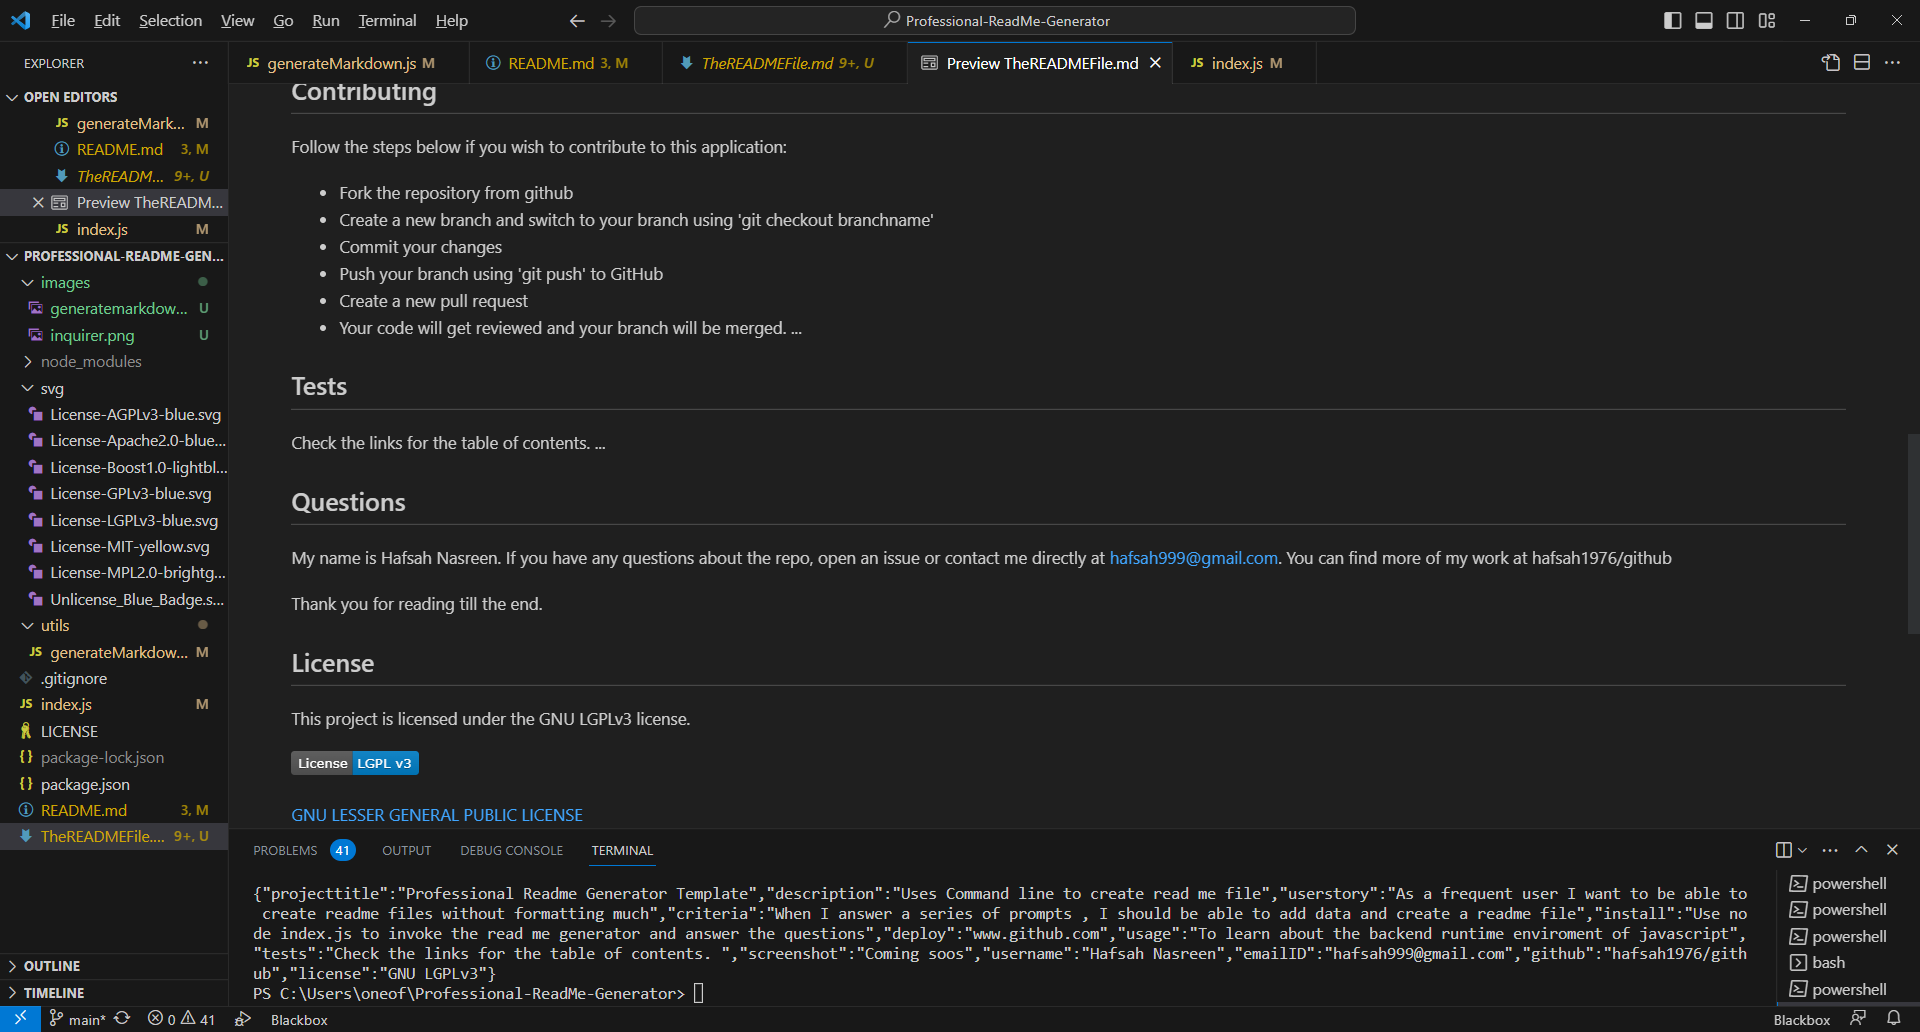
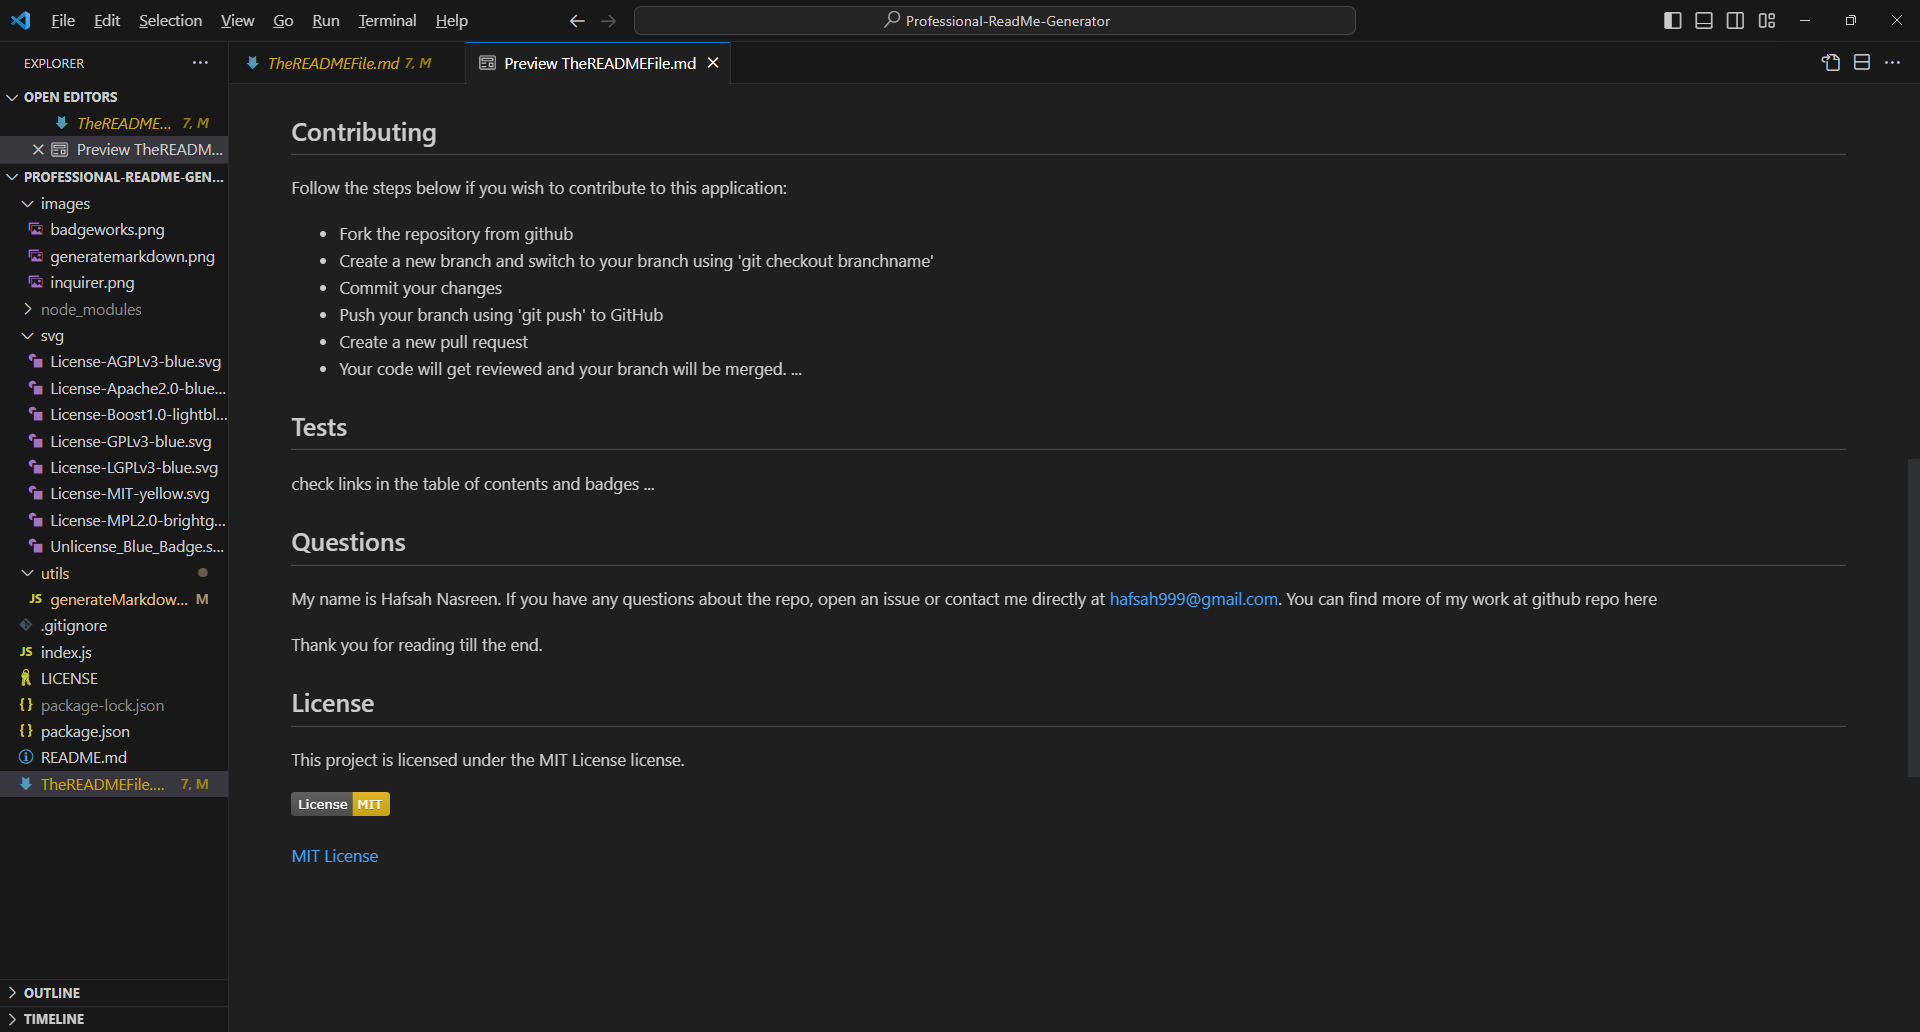
double checking everything

diff --git a/utils/generateMarkdown.js b/utils/generateMarkdown.js
@@ -10,8 +10,8 @@ function renderLicenseBadge(license) {
     return "![License: LGPL v3](./svg/License-LGPLv3-blue.svg)";
   } else if (license === "Mozilla Public License 2.0") {
     return "![Mozilla Public License 2.0](./svg/License-MPL2.0-brightgreen.svg)";
-  } else if (license === "MIT") {
-    return "![License: MIT](./svg/License-MIT-yellow.svg)]";
+  } else if (license === "MIT License") {
+    return "![License: MIT](./svg/License-MIT-yellow.svg)";
   } else if (license === "Apache License 2.0") {
     return "![License:Apache License 2.0](./svg/License-Apache2.0-blue.svg)";
   } else if (license === "The Unlicense") {
@@ -39,14 +39,14 @@ function renderLicenseLink(license) {
     return "[Mozilla Public License 2.0](https://choosealicense.com/licenses/mpl-2.0/)";
   } else if (license === "Apache License 2.0") {
     return "[Apache License](https://choosealicense.com/licenses/apache-2.0/)";
-  } else if (license === "MIT") {
+  } else if (license === "MIT License") {
     return "[MIT License](https://choosealicense.com/licenses/mit/)";
-
   } else if (license === "The Unlicense") {
     return "[The Unlicense](https://choosealicense.com/licenses/unlicense/)";
   } else if (license === "Boost Software License 1.0") {
     return "[Boost Software License](https://choosealicense.com/licenses/bsl-1.0/)";
   } else {
+    
     return `No License Selected`;
   }
 }
@@ -57,12 +57,10 @@ function renderLicenseSection(license) {
   if (!license) {
     return '';
   }
-
   return `
-  ## License
+## License
 
-  This project is licensed under the ${license} license.
-  `;
+This project is licensed under the ${license} license.`;
 }
 
 // TODO: Create a function to generate markdown for README
@@ -72,10 +70,6 @@ function generateMarkdown(data) {
   
   ${data.description}
 
-  ${renderLicenseBadge(license)}
-
-  ...
-  
 ## Table of Contents
 
 - [User Story](#user-story)
@@ -85,31 +79,24 @@ function generateMarkdown(data) {
 - [Contributing](#contributing)
 - [Tests](#tests)
 - [Questions](#questions)
-  ...
 
-  ## User Story
+## User Story
 
   ${data.userstory}
-  ...
 
 ## Acceptance Criteria
 
   ${data.criteria}
-  ...
 
-## Usage 
+## Usage
 
     [Deployment URL](${data.deploy})
 
   ${data.usage}
-  ...
 
 ## Screenshot
 
   ${data.screenshot}
-
-  ![]()
-  ...
 
 ## Installation
 
@@ -123,14 +110,14 @@ function generateMarkdown(data) {
 
 ## Contributing
 
-  Follow the steps below if you wish to contribute to this application:
+Follow the steps below if you wish to contribute to this application:
 
-  - Fork the repository from github
-  - Create a new branch and switch to your branch using 'git checkout branchname'
-  - Commit your changes
-  - Push your branch using 'git push' to GitHub
-  - Create a new pull request
-  - Your code will get reviewed and your branch will be merged.
+- Fork the repository from github
+- Create a new branch and switch to your branch using 'git checkout branchname'
+- Commit your changes
+- Push your branch using 'git push' to GitHub
+- Create a new pull request
+- Your code will get reviewed and your branch will be merged.
   ...
 
 ## Tests
@@ -138,20 +125,18 @@ function generateMarkdown(data) {
   ${data.tests}
   ...
 
-  ## Questions
+## Questions
 
-  My name is ${data.username}. ${'\n'} If you have any questions about the repo, open an issue or contact me directly at ${data.emailID}. ${'\n'}You can find more of my work at ${data.github}
+My name is ${data.username}. ${'\n'} If you have any questions about the repo, open an issue or contact me directly at ${data.emailID}. ${'\n'}You can find more of my work at ${data.github}
 
-  Thank you for reading till the end.
+Thank you for reading till the end.
 
 
 ${renderLicenseSection(data.license)}
 
   ${renderLicenseBadge(data.license)}
 
-  ${renderLicenseLink(data.license)}
-  
-    `;
+  ${renderLicenseLink(data.license)}`;
 };
 
 module.exports = generateMarkdown;

diff --git a/TheREADMEFile.md b/TheREADMEFile.md
@@ -1,11 +1,7 @@
-# Professional Readme Generator Template
+# readme template generator
   
-  Uses Command line to create read me file
+  creates a readme file using command line
 
-  GNU LGPLv3
-
-  ...
-  
 ## Table of Contents
 
 - [User Story](#user-story)
@@ -15,44 +11,38 @@
 - [Contributing](#contributing)
 - [Tests](#tests)
 - [Questions](#questions)
-  ...
 
 ## User Story
 
-  As a frequent user I want to be able to create readme files without formatting much
-  ...
+  I want to create readme files using only command line
 
 ## Acceptance Criteria
 
-  When I answer a series of prompts , I should be able to add data and create a readme file
-  ...
+  When I answer a series of prompts in the terminal , then I can create the readme file
 
-## Usage
+## Usage 
 
-    [Deployment URL](www.github.com)
+    [Deployment URL](github url here)
 
-  To learn about the backend runtime enviroment of javascript
-  ...
+  purpose is to learn backend runtime environment of javascript
 
 ## Screenshot
 
-  Coming soos
-
-  ...
+  coming soon
 
 ## Installation
 
-  The URL will mostly work in all browsers.
-  The preferred Browser is Google Chrome and the extension Chrome DevTools Extension to view the source code.
-  GitHub is a cloud service for projects/repositories.
-  You can simply visit the URL to view the repository in your browser
+  The URL will mostly work in all browsers. 
+  The preferred Browser is Google Chrome and the extension Chrome DevTools Extension to view the source code. 
+  GitHub is a cloud service for projects/repositories. 
+  You can simply visit the URL to view the repository in your browser 
 
-  Use node index.js to invoke the read me generator and answer the questions
+  use npm install inquirer@8.2.4 and then use node index.js to run the javascript file
   ...
 
 ## Contributing
 
-  Follow the steps below if you wish to contribute to this application:
+Follow the steps below if you wish to contribute to this application:
 
 - Fork the repository from github
 - Create a new branch and switch to your branch using 'git checkout branchname'
@@ -64,22 +54,19 @@
 
 ## Tests
 
-  Check the links for the table of contents.
+  check links in the table of contents and badges
   ...
 
 ## Questions
 
-  My name is Hafsah Nasreen.
- If you have any questions about the repo, open an issue or contact me directly at <hafsah999@gmail.com>.
-You can find more of my work at hafsah1976/github
+My name is Hafsah Nasreen. If you have any questions about the repo, open an issue or contact me directly at hafsah999@gmail.com. You can find more of my work at github repo here
 
-  Thank you for reading till the end.
+Thank you for reading till the end.
 
 ## License
 
-  This project is licensed under the GNU LGPLv3 license.
-  
-  ![License: LGPL v3](./svg/License-LGPLv3-blue.svg)
+This project is licensed under the MIT License license.
 
-  [GNU LESSER GENERAL PUBLIC LICENSE](https://choosealicense.com/licenses/lgpl-3.0/)
-  
+  ![License: MIT](./svg/License-MIT-yellow.svg)
+
+  [MIT License](https://choosealicense.com/licenses/mit/)
